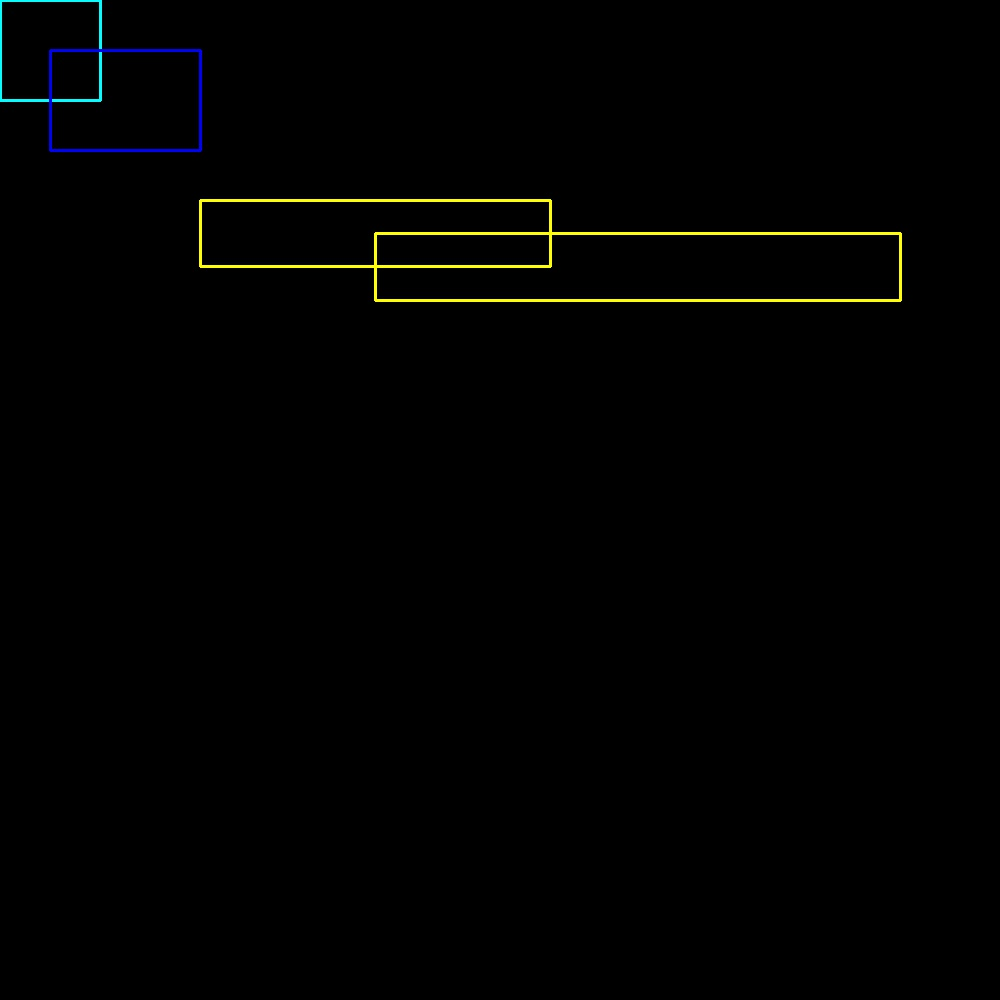
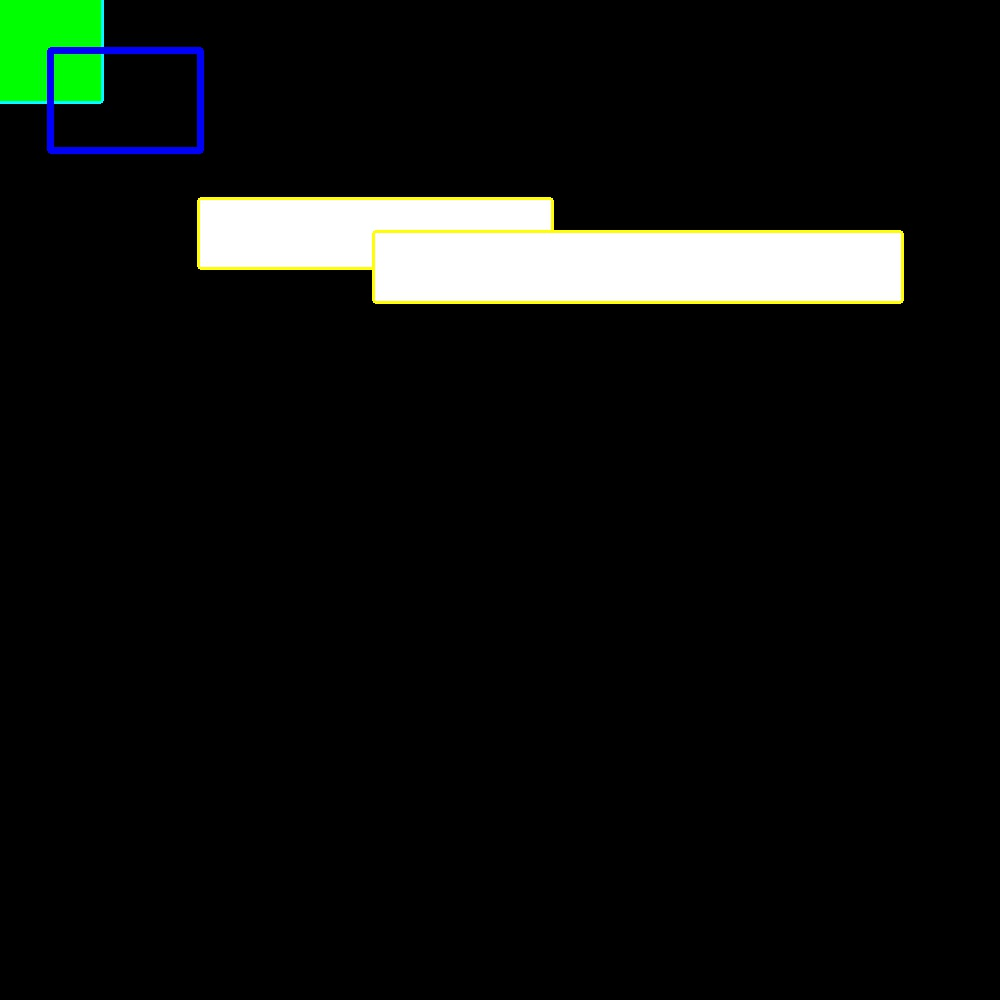
lw7 добавил отрисовку фона

Changed region(s): [[0.186, 0.186, 0.93, 0.31], [0.0, 0.0, 0.217, 0.155]]

diff --git a/lw7/slides/ImageCanvas.cpp b/lw7/slides/ImageCanvas.cpp
@@ -22,16 +22,18 @@ void CImageCanvas::SetLineColor(Color color)
 void CImageCanvas::BeginFill(Color color)
 {
     m_currentScalarFillColor = {color.r, color.g, color.b};
+    m_pointsToFill.clear();
 }
 
 void CImageCanvas::EndFill()
 {
-
+    cv::fillPoly(m_image, m_pointsToFill, m_currentScalarFillColor);
 }
 
 void CImageCanvas::MoveTo(Point p)
 {
     m_currentPoint = p;
+    m_pointsToFill.emplace_back(p.x, p.y);
 }
 
 void CImageCanvas::LineTo(Point p)
@@ -39,7 +41,7 @@ void CImageCanvas::LineTo(Point p)
     line(m_image, cv::Point(m_currentPoint.x, m_currentPoint.y), cv::Point(p.x, p.y), m_currentScalarLineColor,
          m_lineThickness,
          m_lineType);
-    m_currentPoint = p;
+    MoveTo(p);
 }
 
 void CImageCanvas::DrawEllipse(Point center, int horizontalRadius, int verticalRadius)

diff --git a/lw7/slides/CRectangle.cpp b/lw7/slides/CRectangle.cpp
@@ -10,13 +10,17 @@ void CRectangle::Draw(ICanvas &canvas) const
     {
         canvas.SetLineColor(m_lineStyle.color);
     }
-//    if (m_fillStyle.isEnabled)
-//    {
-//        canvas.SetLineColor(m_fillStyle.color);
-//    }
+    if (m_fillStyle.isEnabled)
+    {
+        canvas.BeginFill(m_fillStyle.color);
+    }
     canvas.MoveTo(m_rect.leftTop);
     canvas.LineTo({.x =  m_rect.leftTop.x, .y =  m_rect.rightBottom.y});
     canvas.LineTo(m_rect.rightBottom);
     canvas.LineTo({.x =  m_rect.rightBottom.x, .y =  m_rect.leftTop.y});
     canvas.LineTo(m_rect.leftTop);
+    if (m_fillStyle.isEnabled)
+    {
+        canvas.EndFill();
+    }
 }

diff --git a/lw7/slides/main.cpp b/lw7/slides/main.cpp
@@ -20,6 +20,7 @@ int main()
     auto rect = make_shared<CRectangle>(3);
     rect->SetLineStyle({true, 255, 255, 0});
     auto rect2 = make_shared<CRectangle>(4);
+    rect2->SetFillStyle({false, 0, 0, 255});
     rect2->SetFrame({50, 50, 200, 150});
     slide->InsertShape(rect, nullopt);
     slide->InsertShape(rect2, nullopt);
@@ -28,5 +29,6 @@ int main()
     slide->Draw(*canvas);
     root->SetFrame({200, 200, 900, 300});
     root->SetLineStyle({true, {0, 255, 255}});
+    root->SetFillStyle({true, {255, 255, 255}});
     slide->Draw(*canvas);
 }

diff --git a/lw7/slides/ImageCanvas.h b/lw7/slides/ImageCanvas.h
@@ -27,9 +27,9 @@ private:
     cv::Scalar m_currentScalarLineColor;
     cv::Scalar m_currentScalarFillColor;
     cv::Mat m_image;
-    static const int m_lineThickness = 2;
+    static const int m_lineThickness = 5;
     static const int m_lineType = cv::LINE_8;
     std::string m_imagePath;
-    std::vector<Point> pointsToFill;
+    std::vector<cv::Point> m_pointsToFill;
     Point m_currentPoint = {0, 0};
 };
